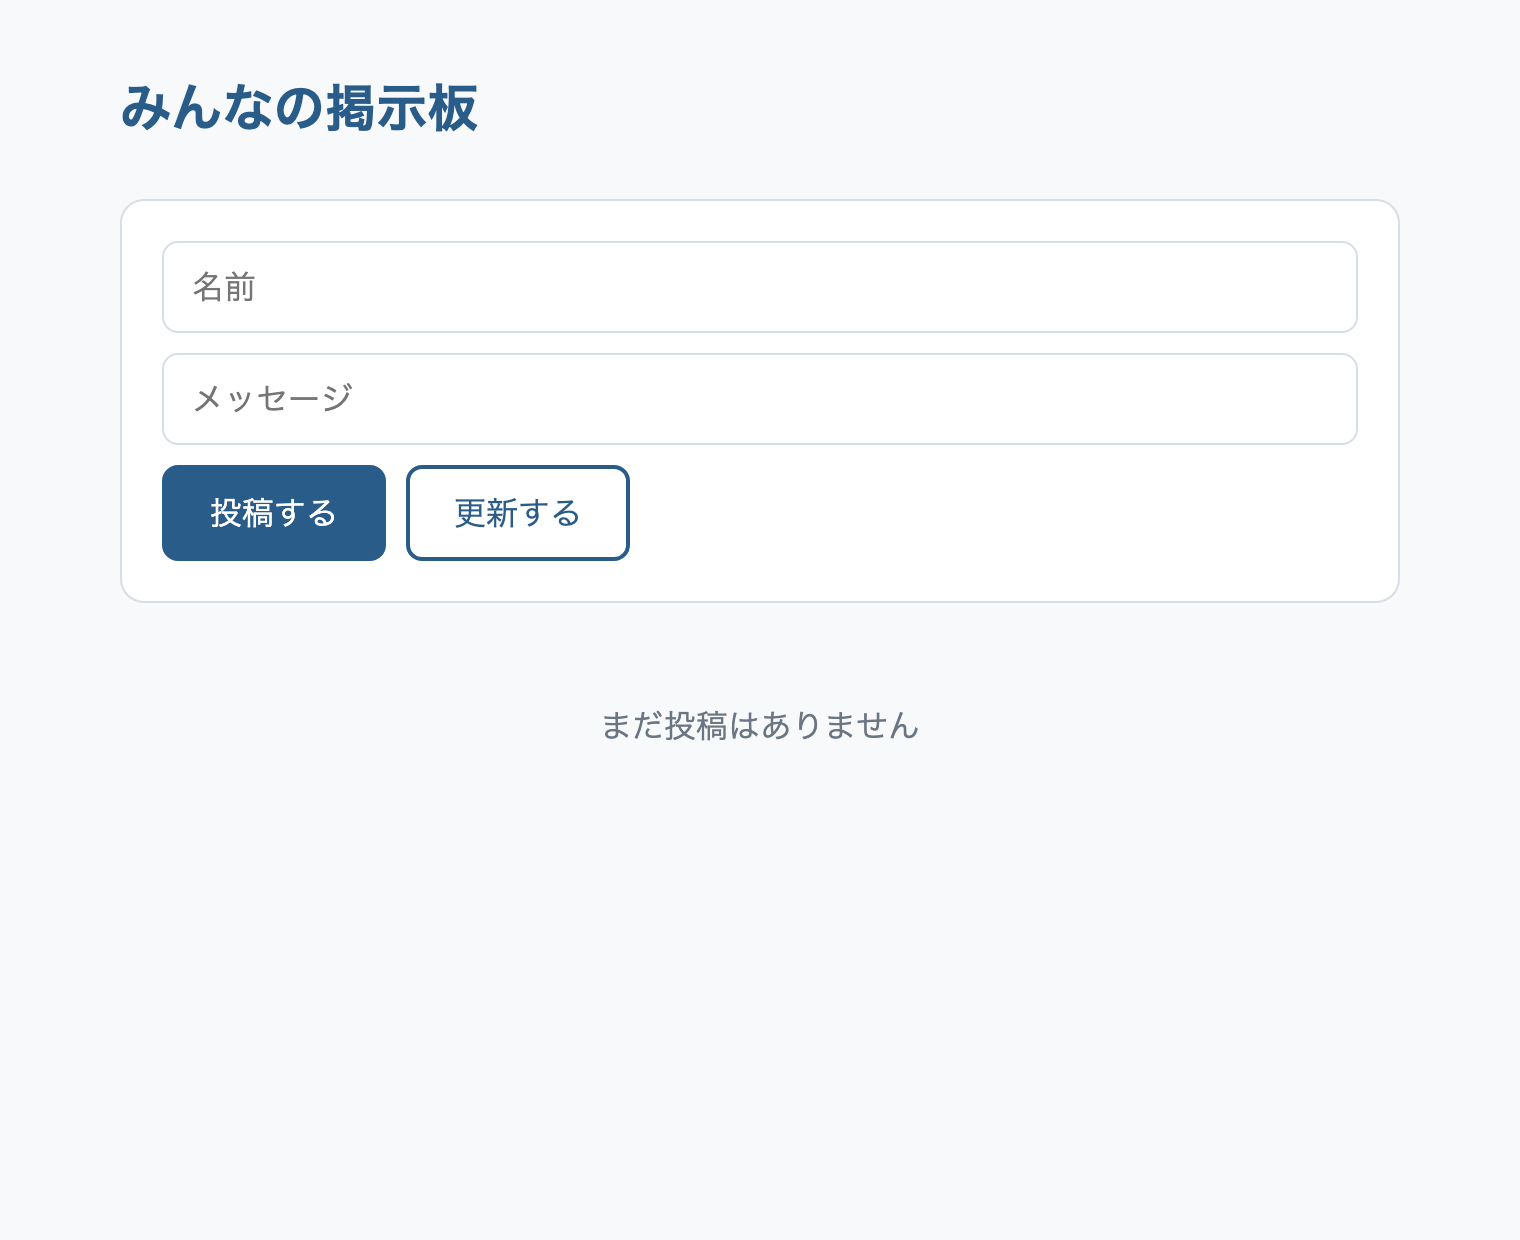
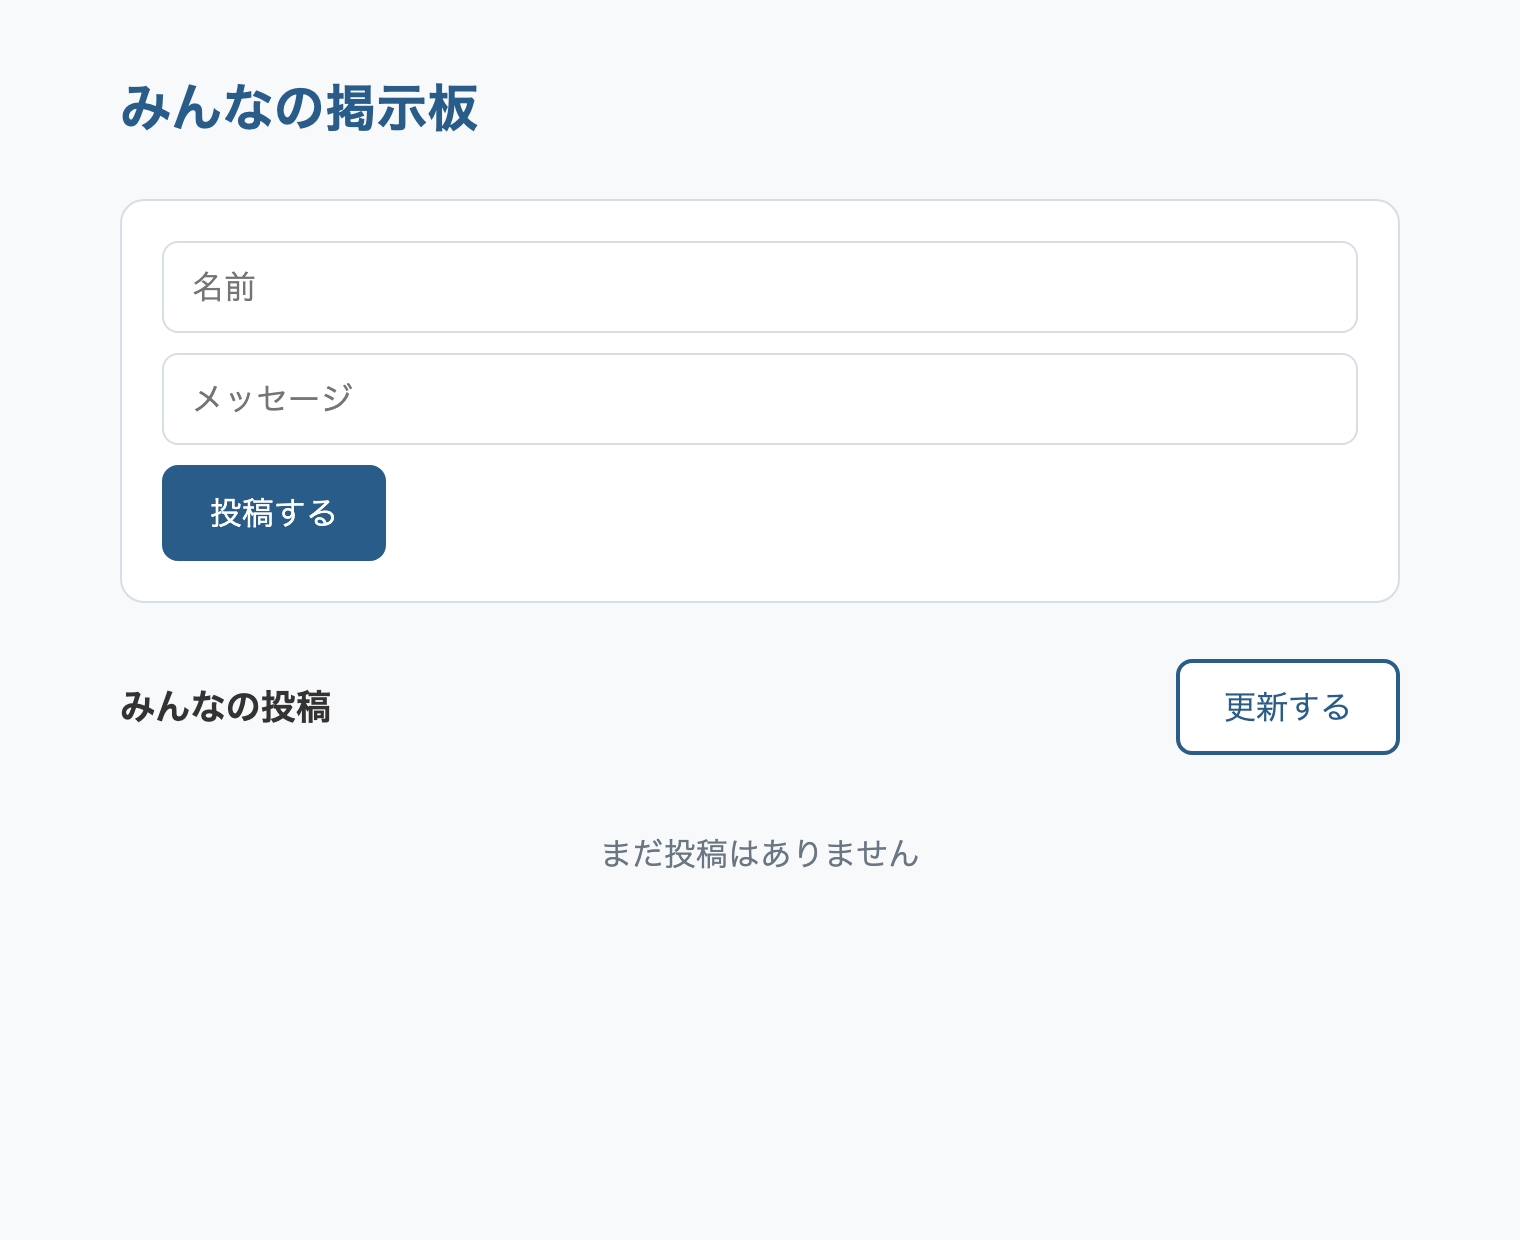
更新ボタンを一覧の見出し行に移す
投稿ボタンの隣にあると、対象の違う2つの操作が対に見える。更新するのは
一覧なので、一覧の見出し行に置いて対象を位置で示す。Chapter 1 の間ずっと
「押しても何も起きないボタン」がフォームに居座る問題も消える。

diff --git a/2026/board/completed/index.html b/2026/board/completed/index.html
@@ -13,10 +13,12 @@
       <div class="form">
         <input id="name-input" type="text" placeholder="名前" />
         <input id="text-input" type="text" placeholder="メッセージ" />
-        <div class="buttons">
-          <button id="post-btn" class="primary">投稿する</button>
-          <button id="reload-btn">更新する</button>
-        </div>
+        <button id="post-btn" class="primary">投稿する</button>
+      </div>
+
+      <div class="list-header">
+        <h2>みんなの投稿</h2>
+        <button id="reload-btn">更新する</button>
       </div>
 
       <ul id="posts"></ul>

diff --git a/2026/board/template/index.html b/2026/board/template/index.html
@@ -13,10 +13,12 @@
       <div class="form">
         <input id="name-input" type="text" placeholder="名前" />
         <input id="text-input" type="text" placeholder="メッセージ" />
-        <div class="buttons">
-          <button id="post-btn" class="primary">投稿する</button>
-          <button id="reload-btn">更新する</button>
-        </div>
+        <button id="post-btn" class="primary">投稿する</button>
+      </div>
+
+      <div class="list-header">
+        <h2>みんなの投稿</h2>
+        <button id="reload-btn">更新する</button>
       </div>
 
       <ul id="posts"></ul>

diff --git a/2026/board/completed/styles.css b/2026/board/completed/styles.css
@@ -52,9 +52,20 @@ input:focus {
   outline-offset: -1px;
 }
 
-.buttons {
+#post-btn {
+  align-self: flex-start;
+}
+
+.list-header {
   display: flex;
-  gap: 10px;
+  align-items: center;
+  justify-content: space-between;
+  margin-top: 28px;
+}
+
+.list-header h2 {
+  margin: 0;
+  font-size: 1.1rem;
 }
 
 button {
@@ -83,7 +94,7 @@ button.primary:hover {
 
 #posts {
   list-style: none;
-  margin: 24px 0 0;
+  margin: 12px 0 0;
   padding: 0;
   display: flex;
   flex-direction: column;

diff --git a/2026/board/template/styles.css b/2026/board/template/styles.css
@@ -52,9 +52,20 @@ input:focus {
   outline-offset: -1px;
 }
 
-.buttons {
+#post-btn {
+  align-self: flex-start;
+}
+
+.list-header {
   display: flex;
-  gap: 10px;
+  align-items: center;
+  justify-content: space-between;
+  margin-top: 28px;
+}
+
+.list-header h2 {
+  margin: 0;
+  font-size: 1.1rem;
 }
 
 button {
@@ -83,7 +94,7 @@ button.primary:hover {
 
 #posts {
   list-style: none;
-  margin: 24px 0 0;
+  margin: 12px 0 0;
   padding: 0;
   display: flex;
   flex-direction: column;

diff --git a/2026/board/slide.md b/2026/board/slide.md
@@ -67,7 +67,13 @@ style: |
   }
   .mock .row {
     display: flex;
+    flex: 1;
     align-items: center;
+    justify-content: space-between;
+    padding-right: 28px;
+  }
+  .mock .row .btn {
+    margin-right: 0;
   }
   .mock .empty {
     color: #999;
@@ -228,10 +234,10 @@ document.getElementById('post-btn').addEventListener('click', addPost);
 ## 画面は **5つの部品** でできている
 
 <div class="mock">
-  <div class="part"><span>みんなの掲示板</span><span class="label">見出し</span></div>
   <div class="part"><span class="empty">名前</span><span class="label">① 名前の入力欄</span></div>
   <div class="part"><span class="empty">メッセージ</span><span class="label">② メッセージの入力欄</span></div>
-  <div class="part"><span class="row"><span class="btn">投稿する</span><span class="btn">更新する</span></span><span class="label">③ 投稿ボタン　④ 更新ボタン</span></div>
+  <div class="part"><span class="btn">投稿する</span><span class="label">③ 投稿ボタン</span></div>
+  <div class="part"><span class="row"><span>みんなの投稿</span><span class="btn">更新する</span></span><span class="label">④ 更新ボタン</span></div>
   <div class="part"><span class="empty">（まだ何もありません）</span><span class="label">⑤ 投稿の一覧</span></div>
 </div>
 

diff --git a/2026/board/README.md b/2026/board/README.md
@@ -51,9 +51,11 @@ Chapter 1 で `addPost()` と `showPosts()` の 2 つの関数に切っておき
 |----|------|
 | `name-input` | 名前の入力欄 |
 | `text-input` | メッセージの入力欄 |
-| `post-btn` | 投稿ボタン |
-| `reload-btn` | 更新ボタン |
+| `post-btn` | 投稿ボタン（入力フォームの中） |
+| `reload-btn` | 更新ボタン（一覧の見出し行） |
 | `posts` | 投稿一覧の親要素（`<ul>`） |
+
+更新ボタンはフォームではなく一覧の見出し行に置いています。更新の対象は一覧なので、投稿ボタンと並べると役割が同じに見えてしまうためです。
 
 `script.js` の先頭に、API のベース URL と部屋 ID の定数を用意しておきます。受講者はここをさわりません。
 
